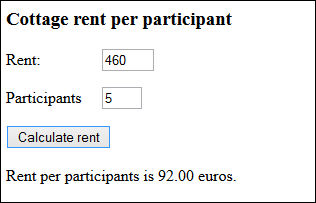
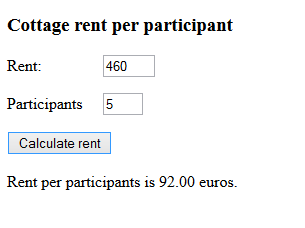
exercise 06.02 added, frames removed from pics

Changed region(s): [[0.0, 0.0, 1.0, 1.0], [0.2951, 0.2365, 0.5311, 0.3547]]

diff --git a/en/xc/06.02.html b/en/xc/06.02.html
@@ -1,0 +1,38 @@
+<!DOCTYPE html>
+<html>
+<head>
+<meta charset="UTF-8">
+<title>Player's Age</title>
+
+ <script type="text/javascript">
+
+	function checkAge() {
+		
+		// assign the age input field value into a variable
+		
+		//if age smaller than 18
+			// assign text "Adolescents are not allowed to play." to a variable
+		// otherwise 
+			// assign text "Old enough to play." to a variable  
+		
+		// write the answer to the web page DOM, in the answer div, as the content
+		
+	}
+	</script>
+</head>
+<body>
+	<h3>Player's Age</h3>
+	<form>
+		<label>Age: </label> <input type="text" name="age" id="age" size="3"> 
+		<input type="button" value="Check age" onClick="checkAge()">
+	</form>
+
+	<!-- This is the target where the JavaScript will write the answer -->
+	<div id="answer"></div>
+</body>
+</html>
+<!-- test example: 
+age = 21 -> ok 
+age = 16 - nok 
+-->
+
